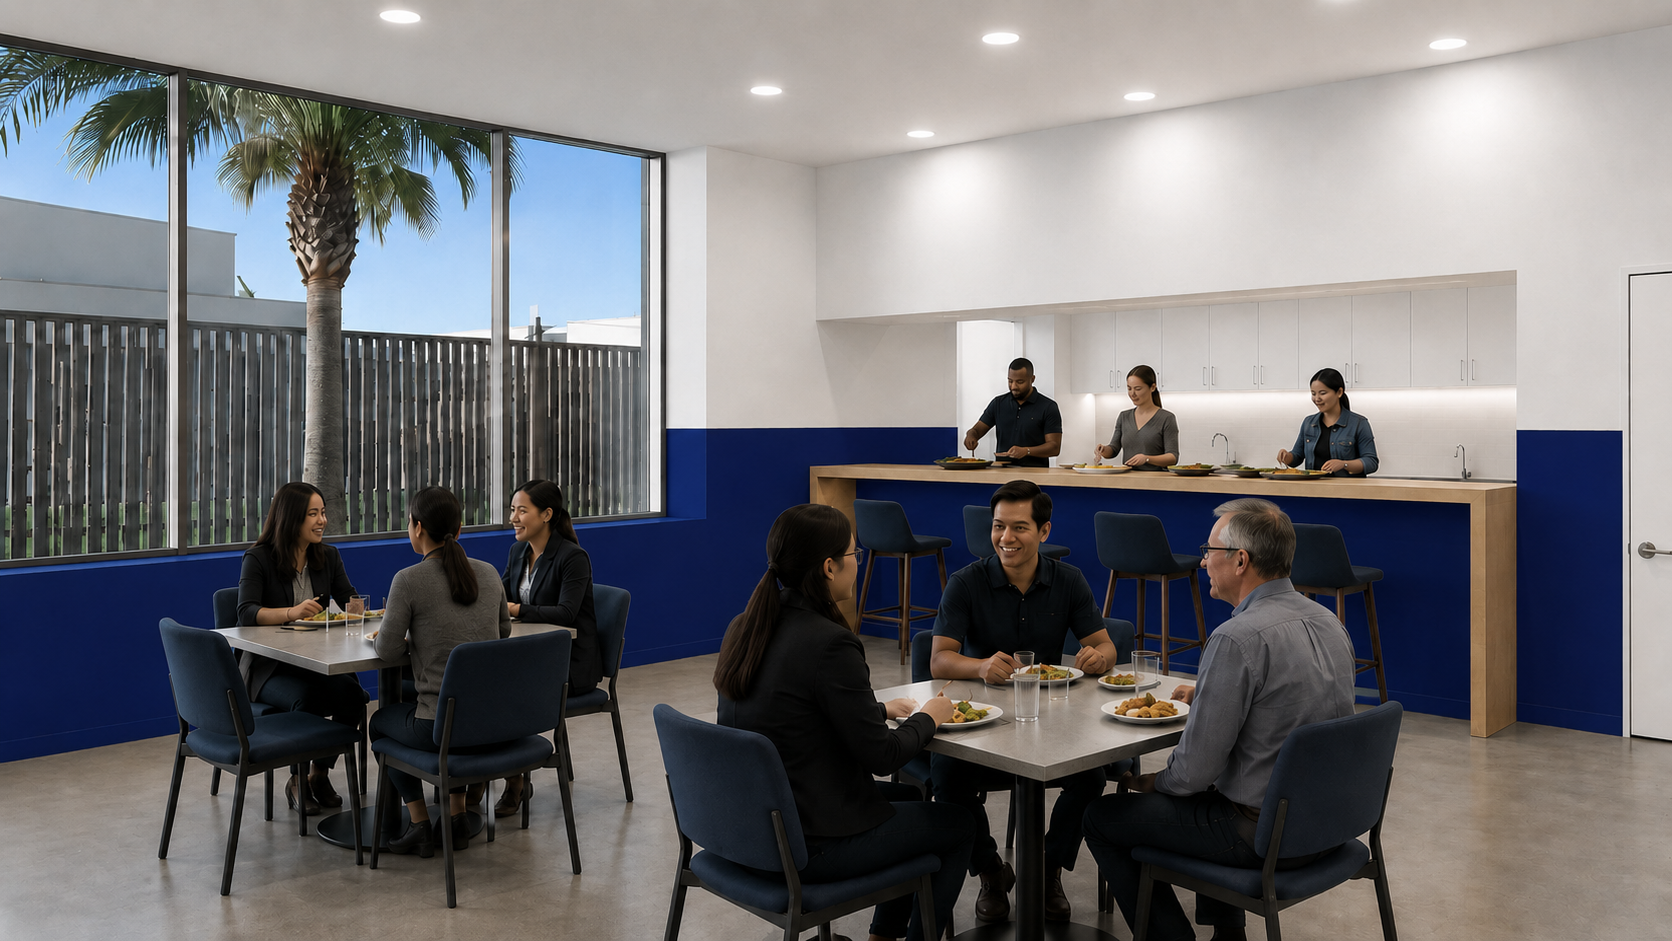
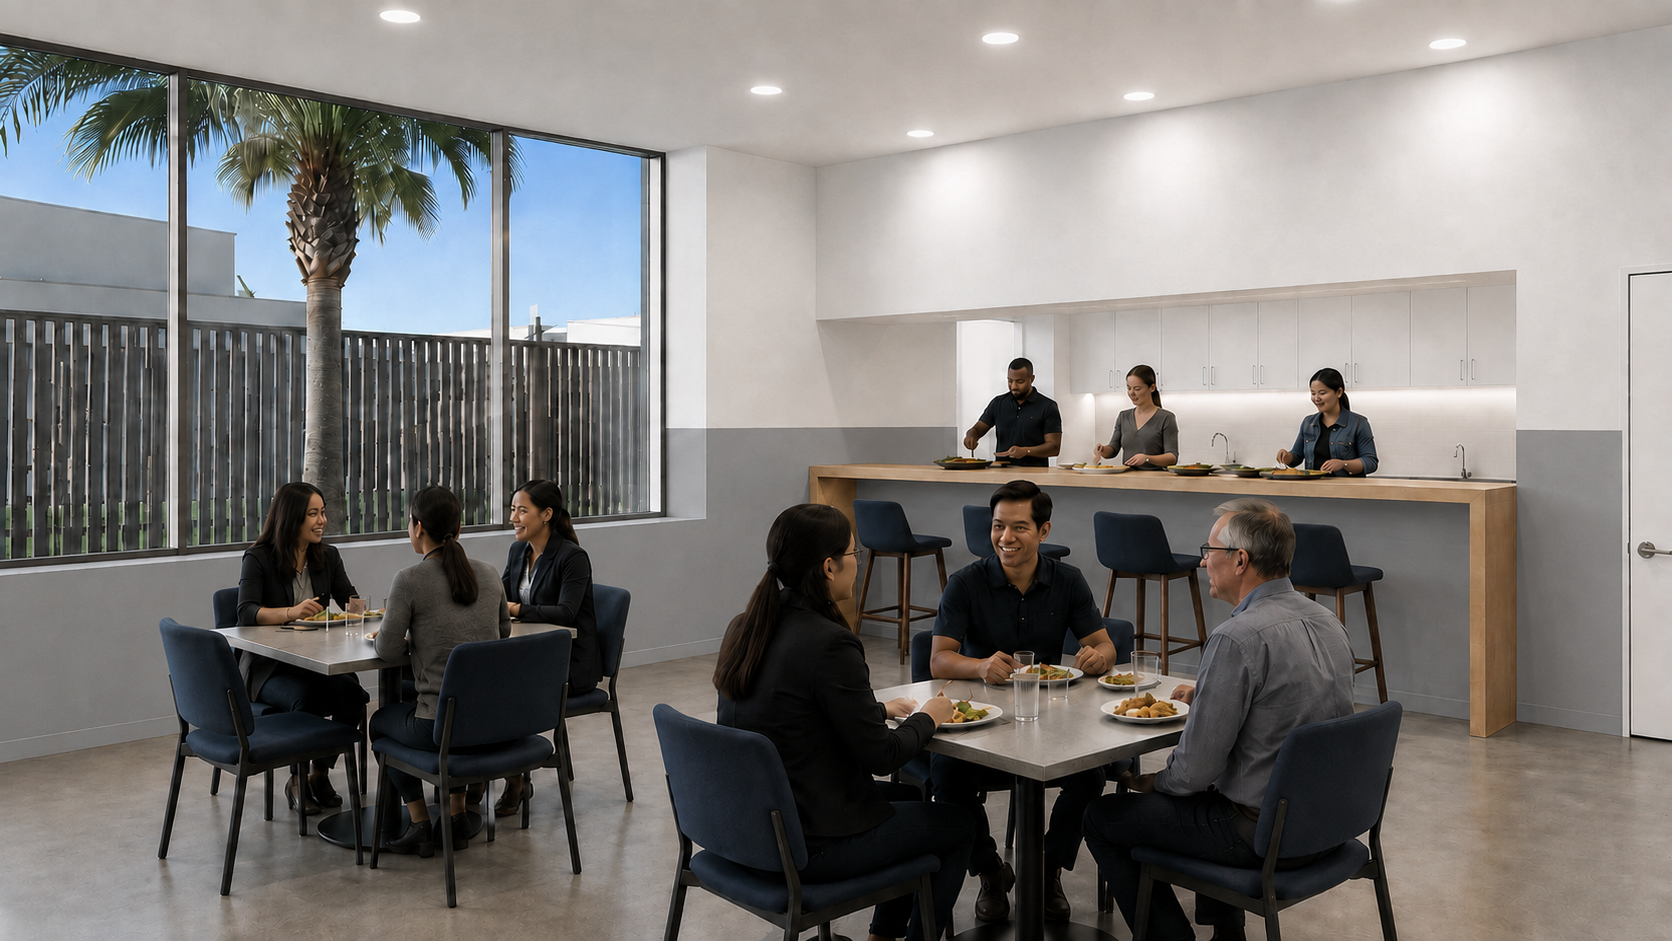
se cambio el orden casa pupy, quito boton atmosferas en interiores y cambio de interiores en proyecto salem

diff --git a/src/components/Projects.tsx b/src/components/Projects.tsx
@@ -323,10 +323,10 @@ export const requestedProjectOrder = [
   "proyecto-cyg",
   "proyecto-jorval",
   "casa-scott",
-  "casa-pupy",
   "casa-coffee",
   "casa-inti",
   "casa-del-limonero",
+  "casa-pupy",
   "casa-navarro",
   "proyecto-z",
   "proyecto-carla",
@@ -341,7 +341,7 @@ export const requestedProjectOrder = [
 ] as const;
 
 export const sortProjectsByRequestedOrder = <T extends { id?: string }>(items: T[]) => {
-  const orderMap = new Map(requestedProjectOrder.map((id, index) => [id, index]));
+  const orderMap = new Map<string, number>(requestedProjectOrder.map((id, index) => [id, index]));
 
   return [...items].sort((a, b) => {
     const aOrder = a.id ? orderMap.get(a.id) ?? Number.MAX_SAFE_INTEGER : Number.MAX_SAFE_INTEGER;
@@ -367,6 +367,16 @@ const uniqueGalleryBySrc = (gallery: GalleryItem[], targetAtmosphere?: Atmospher
   }
 
   return acc;
+};
+
+const isRepeatedAcrossAtmospheres = (src: string, gallery: GalleryItem[]) => {
+  const atmospheres = new Set(
+    gallery.filter((item) => item.src === src).map((item) => item.atmosphere)
+  );
+
+  return ["anochecer", "atardecer", "amanecer"].every((atmosphere) =>
+    atmospheres.has(atmosphere as Exclude<AtmosphereType, "todos">)
+  );
 };
 
 export const projects: Project[] = [
@@ -1960,24 +1970,24 @@ function ProjectModal({
 
   const getCasaPupyDesiredSrcOrder = (atm: AtmosphereType): string[] => {
     if (atm === "anochecer") {
-      return [casaPupyAnochecer, casaPupyFrontalAnochecer, casaPupyPiletaAnochecer, casaPupyComedor, casaPupyLiving02, casaPupyLiving03];
+      return [casaPupyFrontalAnochecer, casaPupyAnochecer, casaPupyPiletaAnochecer, casaPupyComedor, casaPupyLiving02, casaPupyLiving03];
     }
 
     if (atm === "atardecer") {
-      return [casaPupyAtardecer, casaPupyFrontalAtardecer, casaPupyPiletaAtardecer, casaPupyComedor, casaPupyLiving02, casaPupyLiving03];
+      return [casaPupyFrontalAtardecer, casaPupyAtardecer, casaPupyPiletaAtardecer, casaPupyComedor, casaPupyLiving02, casaPupyLiving03];
     }
 
     if (atm === "amanecer") {
-      return [casaPupyAmanecer, casaPupyFrontalAmanecer, casaPupyPiletaAmanecer, casaPupyComedor, casaPupyLiving02, casaPupyLiving03];
+      return [casaPupyFrontalAmanecer, casaPupyAmanecer, casaPupyPiletaAmanecer, casaPupyComedor, casaPupyLiving02, casaPupyLiving03];
     }
 
     return [
-      casaPupyAnochecer,
-      casaPupyAtardecer,
-      casaPupyAmanecer,
       casaPupyFrontalAnochecer,
       casaPupyFrontalAtardecer,
       casaPupyFrontalAmanecer,
+      casaPupyAnochecer,
+      casaPupyAtardecer,
+      casaPupyAmanecer,
       casaPupyPiletaAnochecer,
       casaPupyPiletaAtardecer,
       casaPupyPiletaAmanecer,
@@ -2271,7 +2281,7 @@ function ProjectModal({
   const [desiredActiveSrc, setDesiredActiveSrc] = useState<string | null>(null);
   const [preserveActiveSlide, setPreserveActiveSlide] = useState(false);
   const skipActiveSlideResetRef = useRef(false);
-  const activeSrcRef = useRef<string | undefined>();
+  const activeSrcRef = useRef<string | undefined>(undefined);
   const activeIndex = reorderedGalleryItems.length > 0 ? activeSlide % reorderedGalleryItems.length : 0;
 
   const delLimoneroSrcTargets: Record<
@@ -2636,7 +2646,12 @@ function ProjectModal({
     }
 
     if (projectId === "proyecto-jorval") {
-      return [proyectoJorvalInteriorComedor, proyectoJorvalInteriorLiving];
+      return [
+        proyectoJorvalExteriorContrafachada,
+        proyectoJorvalExteriorGaleria,
+        proyectoJorvalInteriorComedor,
+        proyectoJorvalInteriorLiving,
+      ];
     }
 
     if (projectId === "casa-vasquez") {
@@ -2645,6 +2660,39 @@ function ProjectModal({
 
     if (projectId === "casa-rosales") {
       return [casaRosalesGaleria01, casaRosalesGaleria02, casaRosalesGaleria03];
+    }
+
+    if (projectId === "proyecto-carla") {
+      return [proyectoCarlaInterior02];
+    }
+
+    if (projectId === "casa-avalos") {
+      return [
+        casaAvalosInteriorLiving,
+        casaAvalosInteriorLiving2,
+        casaAvalosInteriorLiving3,
+        casaAvalosInteriorCocina,
+        casaAvalosInteriorDormitorio,
+        casaAvalosInteriorDormitorio2,
+        casaAvalosInteriorBaño,
+        casaAvalosInteriorSuite,
+        casaAvalosInteriorBañoSuite,
+        casaAvalosInteriorSuite2,
+        casaAvalosInteriorBañoSuite2,
+        casaAvalosInteriorParrilla,
+      ];
+    }
+
+    if (projectId === "casa-sara") {
+      return [
+        casaSaraInteriorLiving1,
+        casaSaraInteriorLiving2,
+        casaSaraInteriorCocina1,
+        casaSaraInteriorCocina2,
+        casaSaraInteriorCocina3,
+        casaSaraInteriorOficina,
+        casaSaraInteriorDormitorio,
+      ];
     }
 
     if (projectId === "proyecto-motoquero") {
@@ -2668,6 +2716,17 @@ function ProjectModal({
     }
 
     return [];
+  }
+
+  function getAtmosphereGalleryItems(atm: AtmosphereType, gallery = project.gallery ?? []) {
+    const alwaysVisibleSrcs = getProjectAlwaysVisibleSrcs(project.id);
+
+    return gallery.filter(
+      (item) =>
+        atm === "todos" ||
+        item.atmosphere === atm ||
+        alwaysVisibleSrcs.includes(item.src)
+    );
   }
 
   const casaIntiInteriorSrcs = [
@@ -3134,7 +3193,7 @@ function ProjectModal({
 
       if (targetSrc) {
         const targetItems = uniqueGalleryBySrc(
-          (project.gallery ?? []).filter((item) => atm === "todos" || item.atmosphere === atm),
+          (project.gallery ?? []).filter((item) => item.atmosphere === atm),
           atm
         );
         const targetIndex = targetItems.findIndex((item) => item.src === targetSrc);
@@ -3323,6 +3382,10 @@ function ProjectModal({
   const activeItem = reorderedGalleryItems[activeIndex] ?? reorderedGalleryItems[0];
   if (!activeItem) return null;
   activeSrcRef.current = activeItem.src;
+  const hideAtmosphereButtons = isRepeatedAcrossAtmospheres(
+    activeItem.src,
+    project.gallery ?? []
+  ) || getProjectAlwaysVisibleSrcs(project.id).includes(activeItem.src);
 
   if (expandedPlanIndex !== null) {
     const expandedPlan = orderedPlanImages[expandedPlanIndex];
@@ -3493,55 +3556,55 @@ function ProjectModal({
               <div className="mt-4 flex flex-nowrap items-center justify-center gap-3 overflow-visible py-1">
                 {isPhaseFilterProject ? (
                   pilisFilterButtons.map((button) => {
-                    const isActive = piliFilter === button.key;
-                    return (
-                      <button
-                        key={button.key}
-                        type="button"
-                        onClick={() => handlePiliFilterChange(button.key)}
-                        title={button.label}
-                        aria-label={button.label}
-                        className={`relative rounded-none border px-4 py-2 text-[10px] uppercase tracking-[0.3em] transition ${
-                          isActive
-                            ? "bg-brand-black text-white shadow-sm ring-2 ring-brand-black ring-offset-2"
-                            : "bg-white text-brand-black hover:bg-brand-black hover:text-white"
-                        }`}
-                      >
-                        {button.label}
-                      </button>
-                    );
-                  })
-                ) : (
-                  atmosphereButtons
-                    .filter((atm) => atm.key !== "todos")
-                    .map((atm) => {
-                      const colorClass =
-                        atm.key === "anochecer"
-                          ? "bg-brand-black text-white border-brand-black"
-                          : atm.key === "atardecer"
-                            ? "bg-[#d97706] text-white border-[#d97706]"
-                            : "bg-[#facc15] text-brand-black border-[#facc15]";
-
-                      const isActive = modalAtmosphere === atm.key;
-
+                      const isActive = piliFilter === button.key;
                       return (
                         <button
-                          key={atm.key}
+                          key={button.key}
                           type="button"
-                          onClick={() => handleAtmosphereChange(atm.key)}
-                          title={atm.label}
-                          aria-label={atm.label}
-                          className={`relative inline-flex h-10 w-10 items-center justify-center rounded-full border transition ${
-                            isActive ? "scale-105 shadow-sm ring-2 ring-brand-black ring-offset-2" : "hover:scale-105"
-                          } ${colorClass}`}
+                          onClick={() => handlePiliFilterChange(button.key)}
+                          title={button.label}
+                          aria-label={button.label}
+                          className={`relative rounded-none border px-4 py-2 text-[10px] uppercase tracking-[0.3em] transition ${
+                            isActive
+                              ? "bg-brand-black text-white shadow-sm ring-2 ring-brand-black ring-offset-2"
+                              : "bg-white text-brand-black hover:bg-brand-black hover:text-white"
+                          }`}
                         >
-                          {isActive ? (
-                            <span className="text-[14px] font-bold leading-none">✓</span>
-                          ) : null}
+                          {button.label}
                         </button>
                       );
                     })
-                )}
+                ) : !hideAtmosphereButtons ? (
+                    atmosphereButtons
+                      .filter((atm) => atm.key !== "todos")
+                      .map((atm) => {
+                        const colorClass =
+                          atm.key === "anochecer"
+                            ? "bg-brand-black text-white border-brand-black"
+                            : atm.key === "atardecer"
+                              ? "bg-[#d97706] text-white border-[#d97706]"
+                              : "bg-[#facc15] text-brand-black border-[#facc15]";
+
+                        const isActive = modalAtmosphere === atm.key;
+
+                        return (
+                          <button
+                            key={atm.key}
+                            type="button"
+                            onClick={() => handleAtmosphereChange(atm.key)}
+                            title={atm.label}
+                            aria-label={atm.label}
+                            className={`relative inline-flex h-10 w-10 items-center justify-center rounded-full border transition ${
+                              isActive ? "scale-105 shadow-sm ring-2 ring-brand-black ring-offset-2" : "hover:scale-105"
+                            } ${colorClass}`}
+                          >
+                            {isActive ? (
+                              <span className="text-[14px] font-bold leading-none">✓</span>
+                            ) : null}
+                          </button>
+                        );
+                      })
+                ) : null}
               </div>
               {atmosphereError ? (
                 <div className="mt-3 text-center text-sm text-red-600">

diff --git a/src/components/project-data.ts b/src/components/project-data.ts
@@ -187,7 +187,7 @@ export const casaProjects: Project[] = [
     id: "casa-pupy",
     title: { es: "Casa Pupy", en: "Casa Pupy", pt: "Casa Pupy" },
     meta: { es: "Vivienda Unifamiliar - 2026", en: "Single-family Home - 2026", pt: "Casa Unifamiliar - 2026" },
-    image: casaPupyAnochecer,
+    image: casaPupyFrontalAnochecer,
     location: "Tortuguita, Buenos Aires",
     year: "2026",
     area: "142 m²",

diff --git a/vite.config.ts b/vite.config.ts
@@ -10,7 +10,6 @@ export default defineConfig({
     alias: {
       "@": fileURLToPath(new URL("./src", import.meta.url)),
     },
-    tsconfigPaths: true,
   },
   plugins: [
     tanstackRouter({
